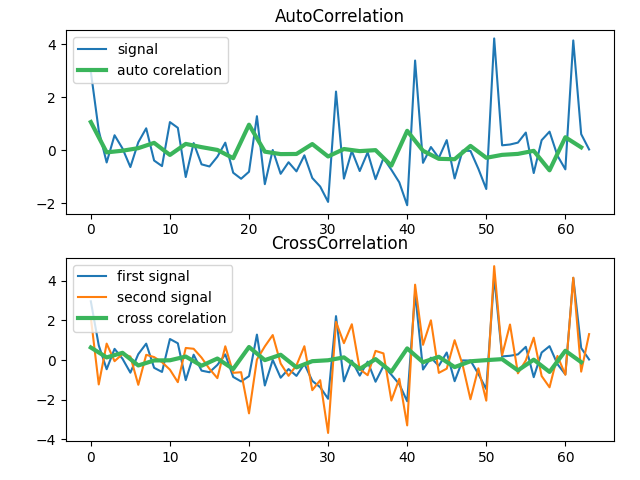
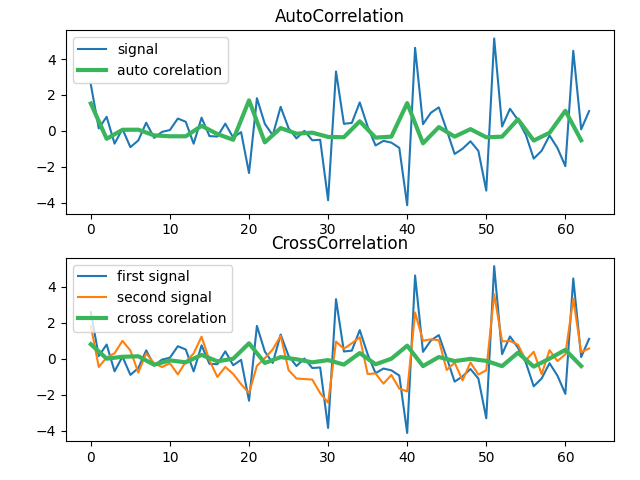
feat(1.2): additional task

diff --git a/signal.py b/signal.py
@@ -28,18 +28,6 @@ def complexity(harmonics, cutoff_frequency, n, step = 10):
         curN = curN * step
     return N, t
 
-def auto_correlation(arr):
-    arr_half_size = int(len(arr) / 2)
-    arr_half = arr[0:arr_half_size]
-
-    res_x = [0] * arr_half_size
-    res_y = [0] * arr_half_size
-    for i in range(arr_half_size):
-        cur_half = arr[i:(i+arr_half_size)]
-        res_x[i] = i*2
-        res_y[i] = calc.correlation(arr_half, cur_half)
-    return res_x, res_y
-
 def cross_corelation(arr1, arr2):
     arr_half_size = int(len(arr1) / 2)
     arr1_half = arr1[0:arr_half_size]
@@ -52,3 +40,5 @@ def cross_corelation(arr1, arr2):
         res_y[i] = calc.correlation(arr1_half, cur_half)
     return res_x, res_y
     
+def auto_correlation(arr):
+    return cross_corelation(arr, arr)
